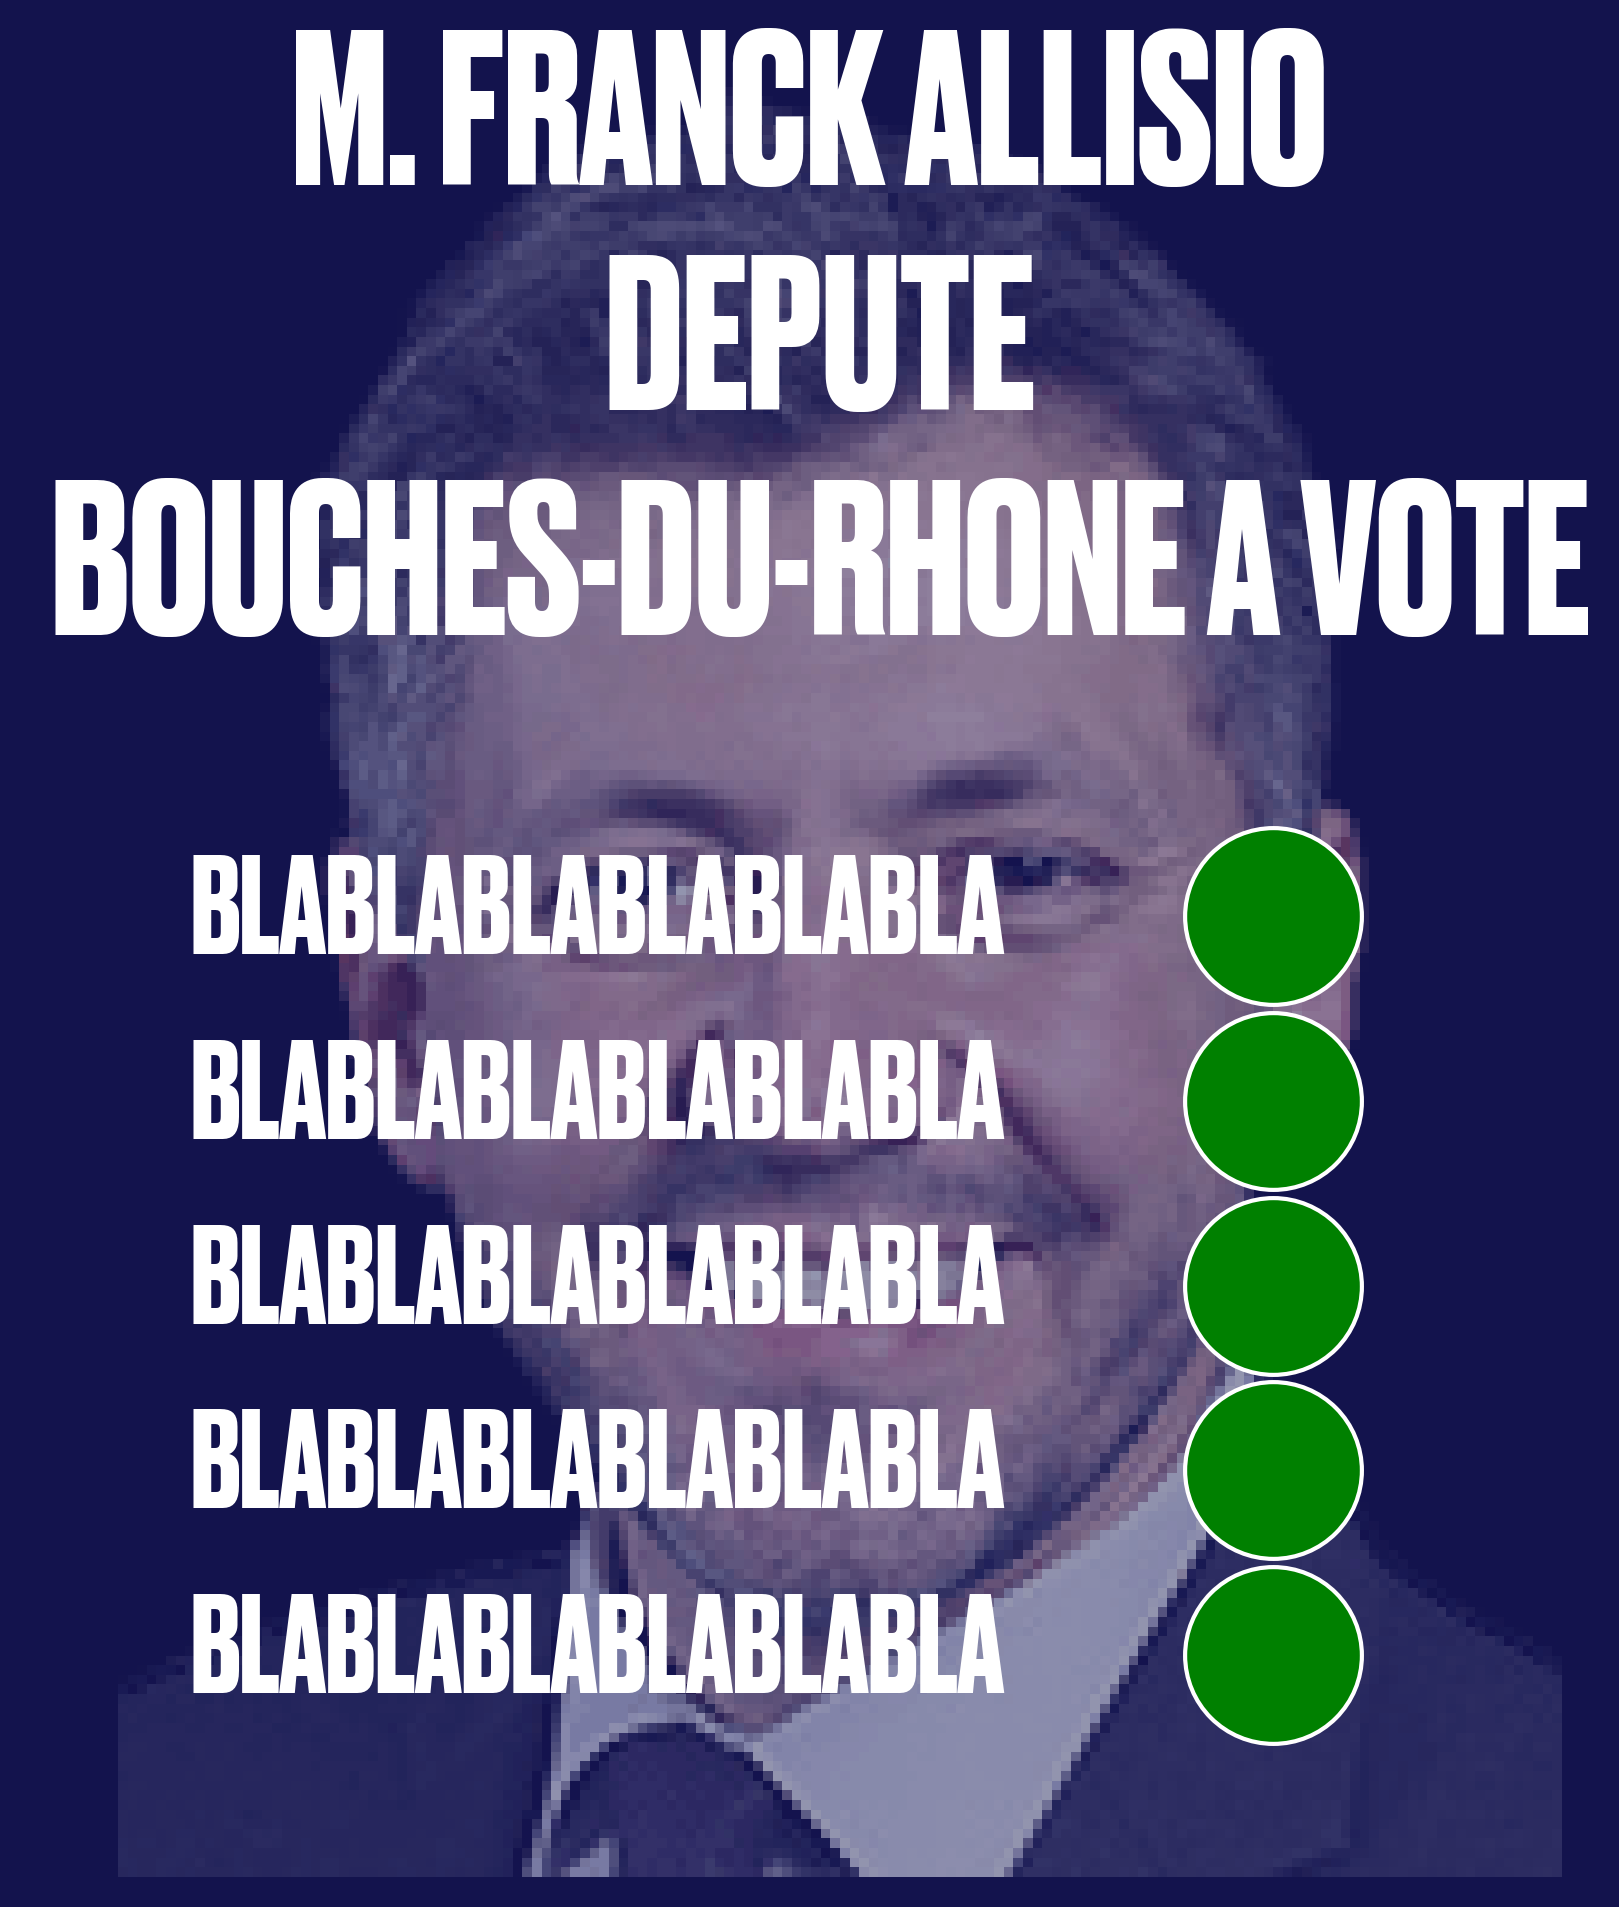
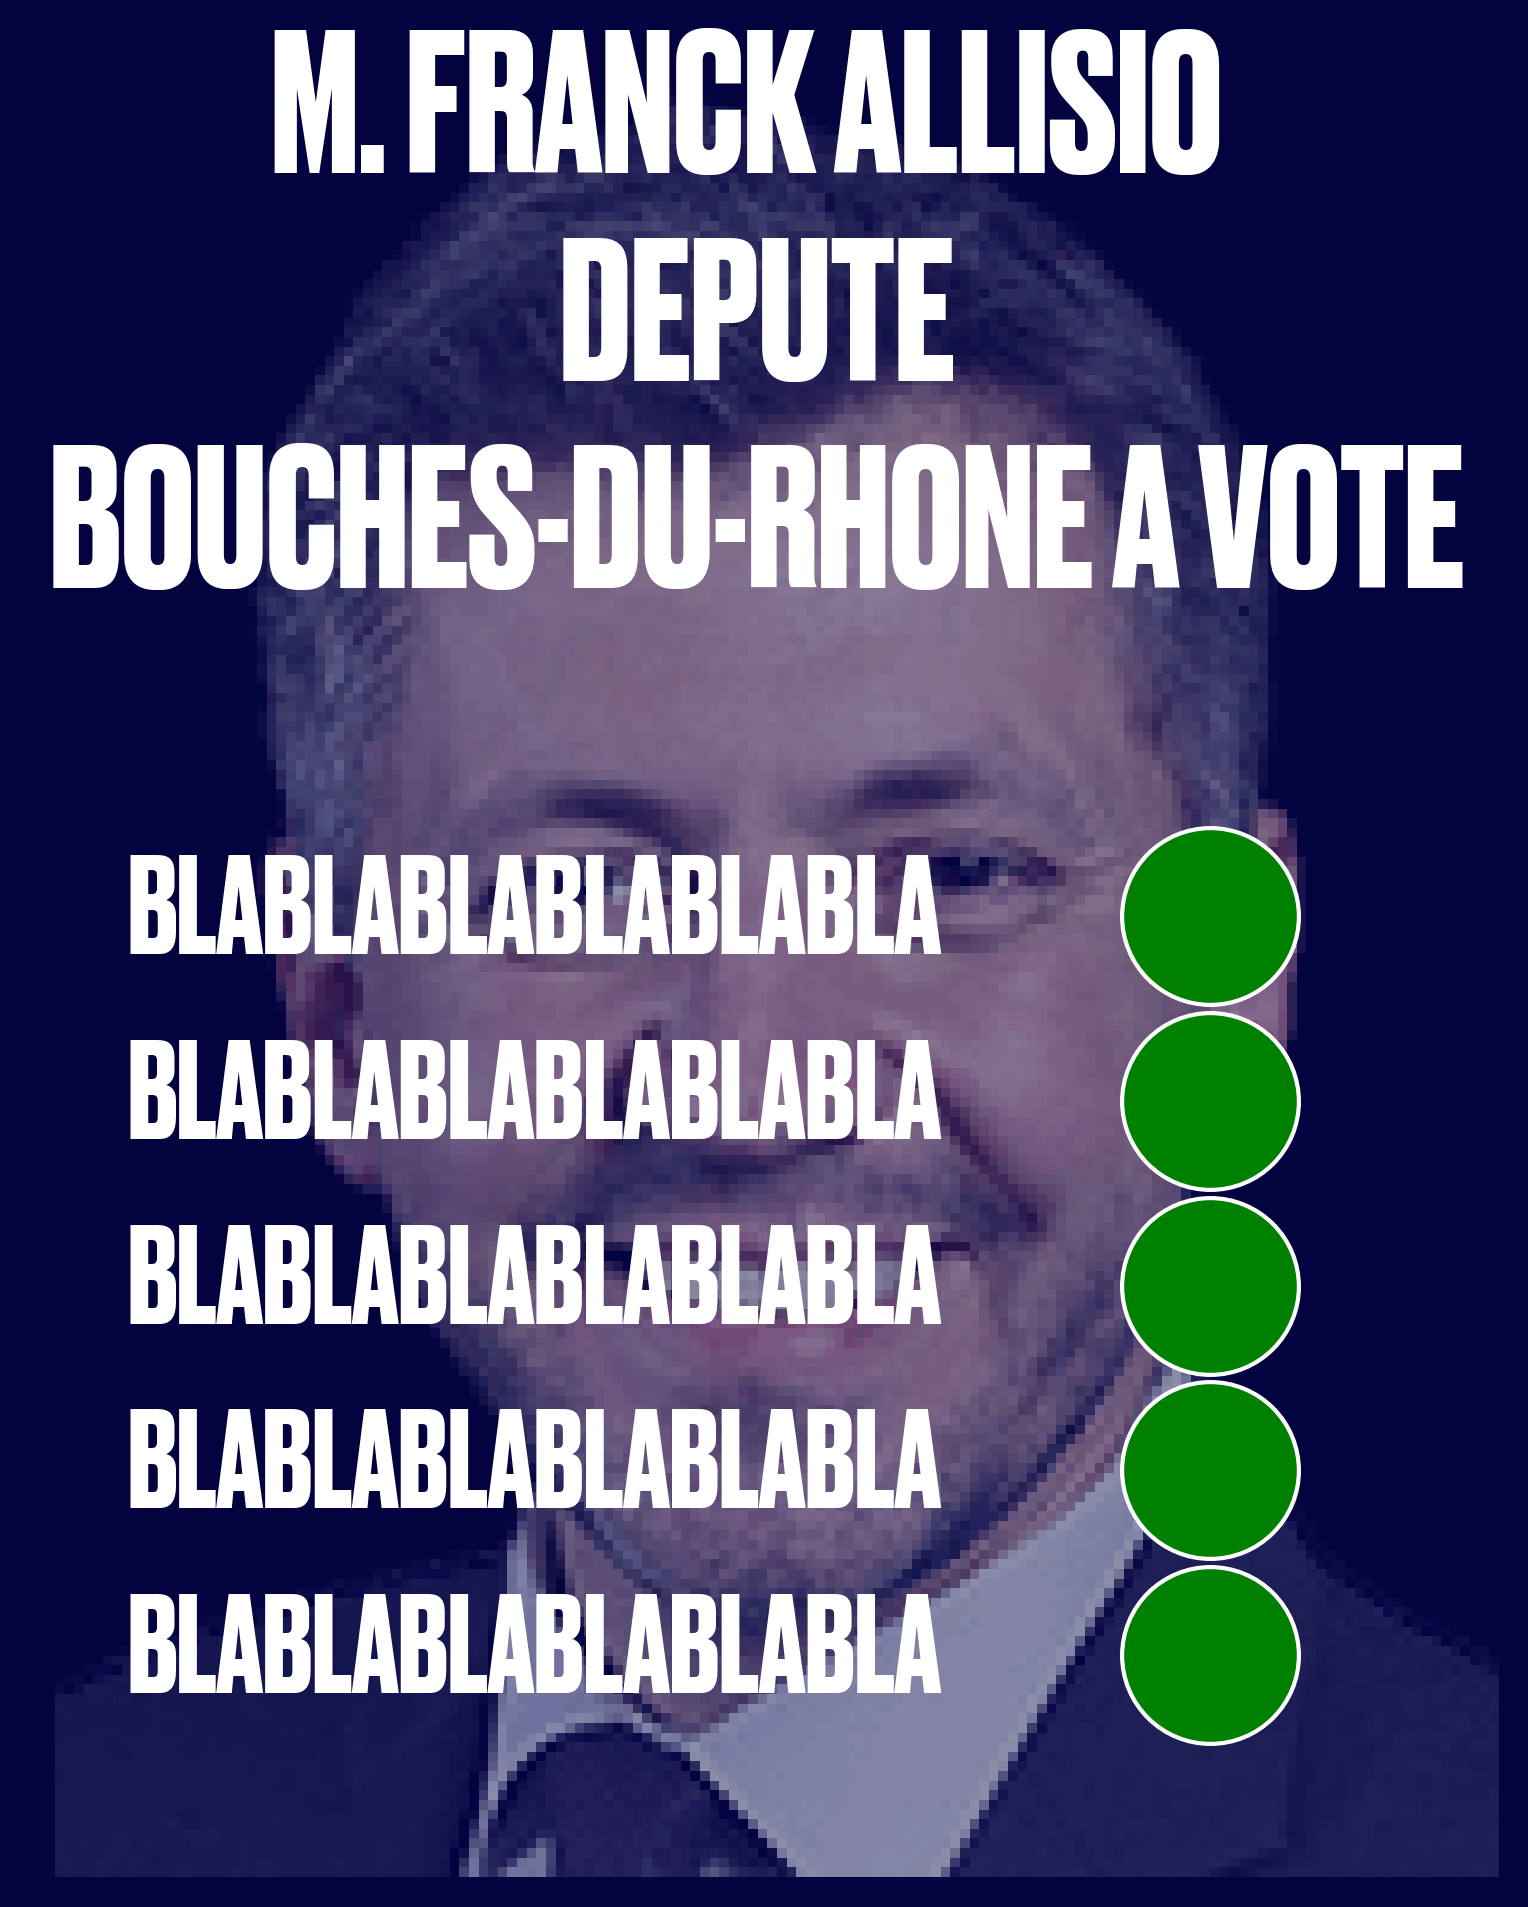
Dark blue closer to the RN one

diff --git a/poster_deputees_RN.py b/poster_deputees_RN.py
@@ -20,7 +20,7 @@ first_2_deputy_names = deputy_names[:2]
 first_2_deputy_const = deputy_constituency[:2]
 
 # Set the background color (RGB values)
-background_color = np.array([0.075, 0.075, 0.3])  # Dark blue
+background_color = np.array([0.01, 0.01, 0.25])  # Dark blue
 
 # Set the figure size
 fig_width = 8
@@ -59,7 +59,7 @@ for deputy_id, deputy_name, deputy_const in zip(first_2_deputy_ids, first_2_depu
 
     # Add the big title
     big_title_André = unidecode(f"M. {deputy_name}\n député\n {deputy_const} a voté".upper())
-    fig.suptitle(big_title_André, fontsize=50, fontweight='bold', color='white', fontproperties=trial_bold_font, y=0.88)
+    fig.suptitle(big_title_André, fontsize=46, fontweight='bold', color='white', fontproperties=trial_bold_font, y=0.88)
 
     # Plot the image
     ax.imshow(image_array.astype(np.uint8),alpha=.55)
